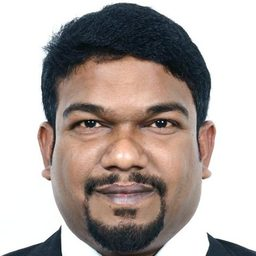
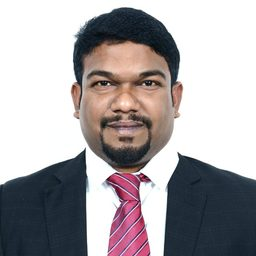
Cards: wider crop of Arun's photo (shoulders and suit visible), consistent photo framing

diff --git a/afzal.html b/afzal.html
@@ -14,7 +14,7 @@
 <link rel="icon" href="/favicon.ico">
 <link rel="preconnect" href="https://fonts.googleapis.com"><link rel="preconnect" href="https://fonts.gstatic.com" crossorigin>
 <link rel="stylesheet" href="https://fonts.googleapis.com/css2?family=Plus+Jakarta+Sans:wght@400;500;600;700;800&display=swap">
-<link rel="stylesheet" href="/card.css?v=3">
+<link rel="stylesheet" href="/card.css?v=4">
 </head>
 <body>
 <main class="card" id="card" data-member="afzal">

diff --git a/nisar.html b/nisar.html
@@ -14,7 +14,7 @@
 <link rel="icon" href="/favicon.ico">
 <link rel="preconnect" href="https://fonts.googleapis.com"><link rel="preconnect" href="https://fonts.gstatic.com" crossorigin>
 <link rel="stylesheet" href="https://fonts.googleapis.com/css2?family=Plus+Jakarta+Sans:wght@400;500;600;700;800&display=swap">
-<link rel="stylesheet" href="/card.css?v=3">
+<link rel="stylesheet" href="/card.css?v=4">
 </head>
 <body>
 <main class="card" id="card" data-member="nisar">

diff --git a/arun.html b/arun.html
@@ -14,7 +14,7 @@
 <link rel="icon" href="/favicon.ico">
 <link rel="preconnect" href="https://fonts.googleapis.com"><link rel="preconnect" href="https://fonts.gstatic.com" crossorigin>
 <link rel="stylesheet" href="https://fonts.googleapis.com/css2?family=Plus+Jakarta+Sans:wght@400;500;600;700;800&display=swap">
-<link rel="stylesheet" href="/card.css?v=3">
+<link rel="stylesheet" href="/card.css?v=4">
 </head>
 <body>
 <main class="card" id="card" data-member="arun">

diff --git a/card.css b/card.css
@@ -100,7 +100,7 @@ a { color: inherit; }
   font-size: 44px;
   color: var(--ink);
 }
-.avatar img { width: 100%; height: 100%; object-fit: cover; object-position: 50% 22%; display: block; }
+.avatar img { width: 100%; height: 100%; object-fit: cover; object-position: 50% 30%; display: block; }
 .name { margin: 18px 0 0; font-size: 30px; line-height: 1.12; font-weight: 800; letter-spacing: -0.025em; color: var(--ink); }
 .role {
   margin: 12px 0 0;
